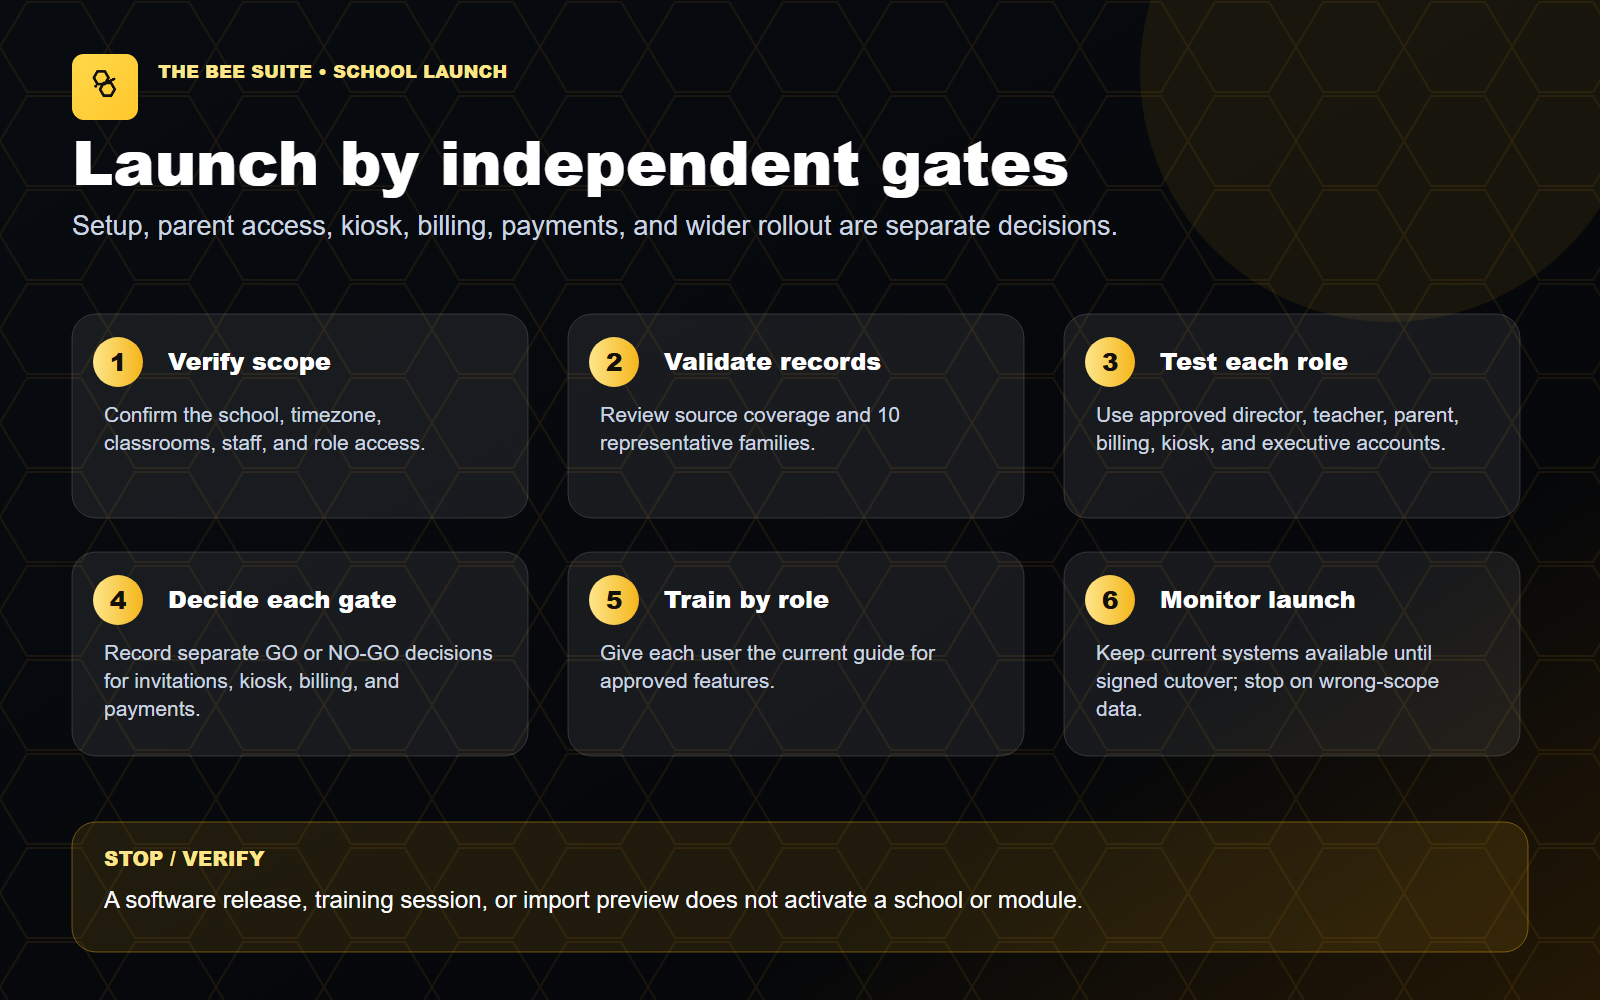
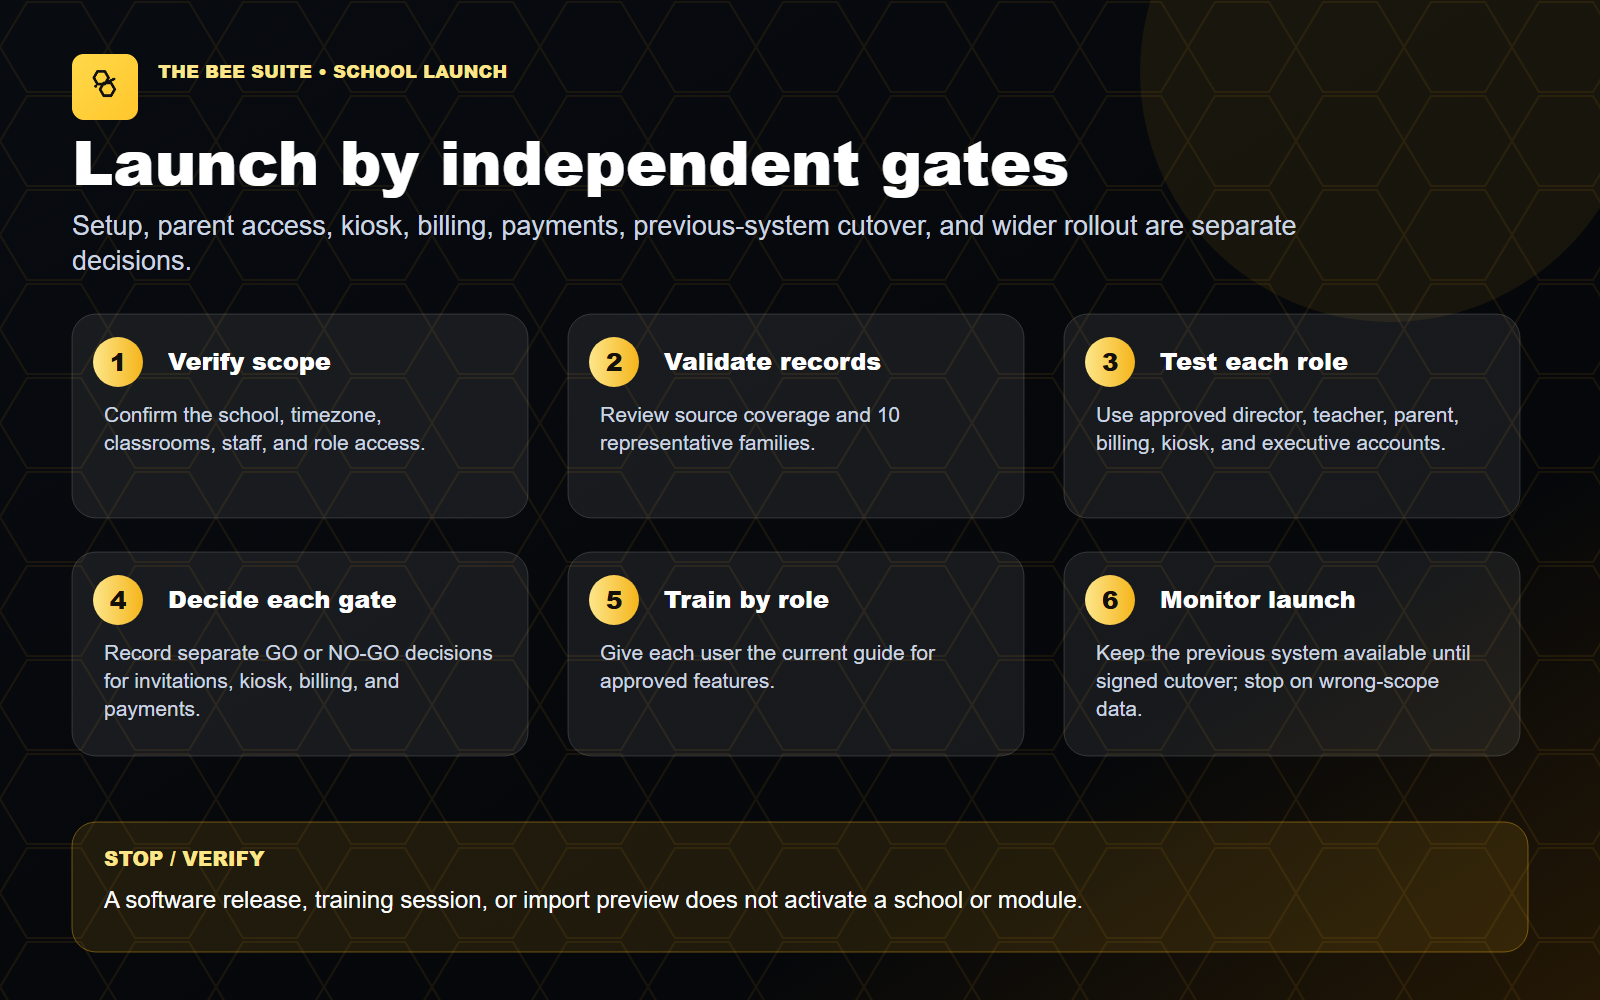
Complete source-neutral transition copy

Changed region(s): [[0.375, 0.217, 0.8125, 0.248], [0.7188, 0.651, 0.9062, 0.682], [0.0312, 0.248, 0.125, 0.279]]

diff --git a/src/components/procare-import-panel.tsx b/src/components/procare-import-panel.tsx
@@ -576,7 +576,7 @@ export function ProcareImportPanel({ centers, allowBulkImport = false }: { cente
     },
     {
       title: "Activation gates",
-      detail: "Parent invitations, kiosk/PIN credentials, billing/payment activation, and legacy-system archival stay held off until separately approved. When invitations are approved, each send reruns a fail-closed import and relationship preflight before any account or email change.",
+      detail: "Parent invitations, kiosk/PIN credentials, billing/payment activation, previous-system cutover, and source-file archival each stay held off until separately approved. When invitations are approved, each send reruns a fail-closed import and relationship preflight before any account or email change.",
       status: "held",
     },
   ] : [];
@@ -586,7 +586,7 @@ export function ProcareImportPanel({ centers, allowBulkImport = false }: { cente
       <CardHeader>
         <CardTitle>Import Family Accounts</CardTitle>
         <CardDescription>
-          The four standard reports populate families, guardians, children, classrooms, enrollment details, allergies, emergency contacts, and pickups. Add staff, schedule, attendance, sign-in/out, health, and account-balance exports to the same upload or ZIP; supported rows are linked by source IDs, while reports without a safe destination mapping are identified for migration follow-up.
+          The four standard source reports—Enrollment, ParentInfo, Relationships, and ChildInfo—populate families, guardians, children, classrooms, enrollment details, allergies, emergency contacts, and pickups. Add staff, schedule, attendance, sign-in/out, health, and account-balance exports to the same upload or ZIP; supported rows are linked by source IDs, while reports without a safe destination mapping are identified for migration follow-up.
         </CardDescription>
       </CardHeader>
       <CardContent className="space-y-4">
@@ -776,7 +776,7 @@ export function ProcareImportPanel({ centers, allowBulkImport = false }: { cente
               <AlertCircle className="size-4" />
               <AlertTitle>Import does not activate the school by itself</AlertTitle>
               <AlertDescription>
-                Parent invitations, kiosk/PIN credentials, billing/payment activation, and legacy-system archival stay held off until the director completes setup review and receives separate approval for each gate.
+                Parent invitations, kiosk/PIN credentials, billing/payment activation, previous-system cutover, and source-file archival each stay held off until the director completes setup review and receives separate approval for each gate.
               </AlertDescription>
             </Alert>
             <div className="flex flex-wrap gap-2">
@@ -1023,7 +1023,7 @@ export function ProcareImportPanel({ centers, allowBulkImport = false }: { cente
                         );
                       })}
                       {!section.correlations.length ? (
-                        <div className="text-xs text-muted-foreground">The four standard source reports supply this relationship automatically.</div>
+                        <div className="text-xs text-muted-foreground">The four standard source reports (Enrollment, ParentInfo, Relationships, and ChildInfo) supply this relationship automatically.</div>
                       ) : null}
                     </div>
                     {section.required ? (

diff --git a/src/lib/parent-invitation-readiness.ts b/src/lib/parent-invitation-readiness.ts
@@ -168,7 +168,7 @@ export function evaluateProcareInvitationBatchReadiness(
   if (!batch) {
     return {
       ok: false,
-      blockers: ["No completed ProCare import batch is linked to this school or family."],
+      blockers: ["No completed source import batch is linked to this school or family."],
       importBatchId: null,
     };
   }
@@ -179,7 +179,7 @@ export function evaluateProcareInvitationBatchReadiness(
   const sourceType = clean(summary.sourceType);
   const isGuardedRenderedPackage = sourceType === "procare_rendered_report_files";
   if (batch.status !== "completed") {
-    blockers.push("The linked ProCare import is not complete and error-free.");
+    blockers.push("The linked source import is not complete and error-free.");
   }
   if (
     number(summary.errors)
@@ -187,10 +187,10 @@ export function evaluateProcareInvitationBatchReadiness(
     || number(summary.warningRows)
     || number(summary.disposed)
   ) {
-    blockers.push("The linked ProCare import still has errors, unresolved warnings, or disposed source rows.");
+    blockers.push("The linked source import still has errors, unresolved warnings, or disposed source rows.");
   }
   if (summary.sourceInventoryConfirmed !== true) {
-    blockers.push("The ProCare source-file inventory was not confirmed before import.");
+    blockers.push("The source-file inventory was not confirmed before import.");
   }
   if (isGuardedRenderedPackage) {
     const normalizedRows = record(datasetCoverage.normalizedRows);
@@ -200,21 +200,21 @@ export function evaluateProcareInvitationBatchReadiness(
       || number(normalizedRows.ready) <= 0
       || number(normalizedRows.needsResolution) !== number(summary.excludedUnresolvedRows)
     ) {
-      blockers.push("The rendered ProCare package was not fully reviewed or did not exclude every unresolved row.");
+      blockers.push("The rendered source package was not fully reviewed or did not exclude every unresolved row.");
     }
     if (!renderedReportDetectionComplete(datasetCoverage) || !renderedSourceRowsComplete(datasetCoverage)) {
-      blockers.push("The rendered ProCare account, registration, and enrollment-status reports are not all present.");
+      blockers.push("The rendered source account, registration, and enrollment-status reports are not all present.");
     }
   } else {
     if (!sourceType.startsWith("procare_multi_report_")) {
-      blockers.push("Parent invitations require a complete guarded ProCare import package.");
+      blockers.push("Parent invitations require a complete guarded source import package.");
     }
     if (!reportDetectionComplete(datasetCoverage) || !sourceRowsComplete(datasetCoverage)) {
-      blockers.push("The ProCare enrollment, parent, relationship, and child-information reports are not all present.");
+      blockers.push("The source enrollment, parent, relationship, and child-information reports are not all present.");
     }
   }
   if (warningCoverageCount(datasetCoverage)) {
-    blockers.push("The ProCare source package still contains unresolved account, child, or relationship coverage warnings.");
+    blockers.push("The source package still contains unresolved account, child, or relationship coverage warnings.");
   }
 
   return { ok: blockers.length === 0, blockers, importBatchId: batch.id };

diff --git a/src/lib/data-readiness.ts b/src/lib/data-readiness.ts
@@ -241,7 +241,7 @@ export function buildImportRowReadinessTask(input: {
 }) : DataReadinessTask {
   const entries = normalizedRawData(input.rawData);
   const entity = inferEntity(entries);
-  const message = clean(input.message, 500) || "This reviewed ProCare row needs a human decision before it can be treated as ready.";
+  const message = clean(input.message, 500) || "This reviewed source row needs a human decision before it can be treated as ready.";
   const categoryRule = categoryRules.find((rule) => rule.pattern.test(`${message} ${entries.map((entry) => entry.normalizedKey).join(" ")}`)) ?? categoryRules.at(-1)!;
   const sourceIds = entries
     .filter((entry) => stableIdPattern.test(entry.normalizedKey) && entry.value)
@@ -282,7 +282,7 @@ export function buildImportRowReadinessTask(input: {
     reason: message,
     currentValue,
     proposedValue,
-    difference: currentValue === proposedValue ? "No visible difference" : "The reviewed ProCare value is not yet a confirmed BEE value.",
+    difference: currentValue === proposedValue ? "No visible difference" : "The reviewed source value is not yet a confirmed BEE value.",
     sourceFilename: input.filename,
     sourceRow: input.rowNumber,
     sourceIds,
@@ -394,7 +394,7 @@ function csvCell(value: unknown) {
 export function dataReadinessCsv(tasks: DataReadinessTask[]) {
   const headers = [
     "Status", "Risk", "Priority", "Category", "Entity", "Location", "Reason", "Current BEE value",
-    "ProCare value", "Difference", "Source filename", "Source row", "Source IDs", "Confidence",
+    "Source value", "Difference", "Source filename", "Source row", "Source IDs", "Confidence",
     "Downstream impact", "Decision", "Decision note", "Updated at",
   ];
   const rows = tasks.map((task) => [

diff --git a/src/app/resources/page.tsx b/src/app/resources/page.tsx
@@ -176,7 +176,7 @@ const guides: ResourceGuide[] = [
     steps: [
       "Approve the school profile, rooms, staff roles, family records, tuition rules, billing cadence, and source-data reconciliation.",
       "Test real role and school isolation for executives, directors, billing admins, teachers, parents, and kiosk users.",
-      "Keep setup, parent invitations, kiosk/PIN, billing, parent payments, legacy-system archival, mobile stores, and wider-wave approval as independent dated gates.",
+      "Keep setup, parent invitations, kiosk/PIN, billing, parent payments, previous-system cutover, source-file archival, mobile stores, and wider-wave approval as independent dated gates.",
       "Train directors, teachers, billing staff, and families only on features approved for that school.",
       "Keep the previous system as the source of record until reconciliation, ownership, and the signed cutover decision are complete.",
       "A HELD OFF gate is not a PASS. Record each GO or NO-GO and its owner; stop the affected flow when evidence is missing.",

diff --git a/tests/user-facing-copy-contract.test.ts b/tests/user-facing-copy-contract.test.ts
@@ -38,8 +38,10 @@ const importSetupStaticCopySurfaces = [
   "src/components/data-readiness-center.tsx",
   "src/components/live-ops-pages.tsx",
   "src/components/procare-import-panel.tsx",
+  "src/lib/data-readiness.ts",
   "src/lib/demo-data.ts",
   "src/lib/onboarding-setup.ts",
+  "src/lib/parent-invitation-readiness.ts",
   "src/lib/procare-duplicate-matching.ts",
   "src/lib/procare-import-fields.ts",
   "src/lib/setup-checklists.ts",
@@ -65,6 +67,9 @@ test("production copy avoids pilot and internal approval jargon", () => {
 
 test("authored import and setup UI copy omits the legacy vendor name", () => {
   assert.doesNotMatch(importSetupStaticCopySurfaces, /\b(?:ProCare|Procare)\b/);
+  assert.match(importSetupStaticCopySurfaces, /previous-system cutover/);
+  assert.match(importSetupStaticCopySurfaces, /source-file archival/);
+  assert.match(importSetupStaticCopySurfaces, /Enrollment, ParentInfo, Relationships, and ChildInfo/);
 });
 
 test("stored values, lookup keys, and import provenance remain exact", () => {

diff --git a/tests/procare-import-review.test.ts b/tests/procare-import-review.test.ts
@@ -97,7 +97,7 @@ test("ProCare imports require the exact completed review before commit", () => {
   assert.match(panel, /Open school setup/);
   assert.match(panel, /billing-settings\?view=setup/);
   assert.match(panel, /Import does not activate the school by itself/);
-  assert.match(panel, /Parent invitations, kiosk\/PIN credentials, billing\/payment activation, and legacy-system archival stay held off/);
+  assert.match(panel, /Parent invitations, kiosk\/PIN credentials, billing\/payment activation, previous-system cutover, and source-file archival each stay held off/);
   assert.match(panel, /useRouter/);
   assert.match(panel, /router\.refresh\(\)/);
   assert.match(panel, /hasCompletedPreview/);
